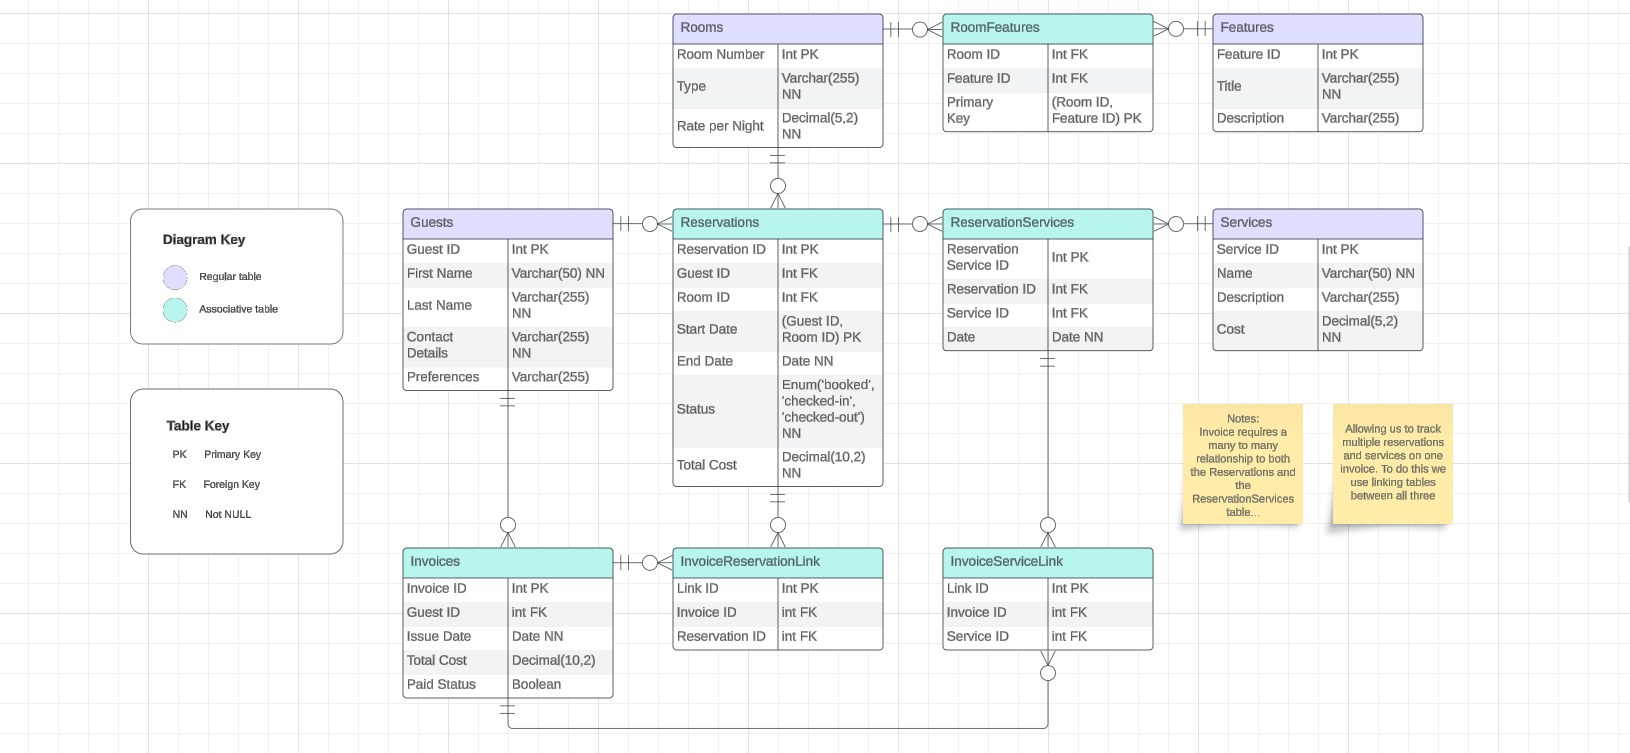
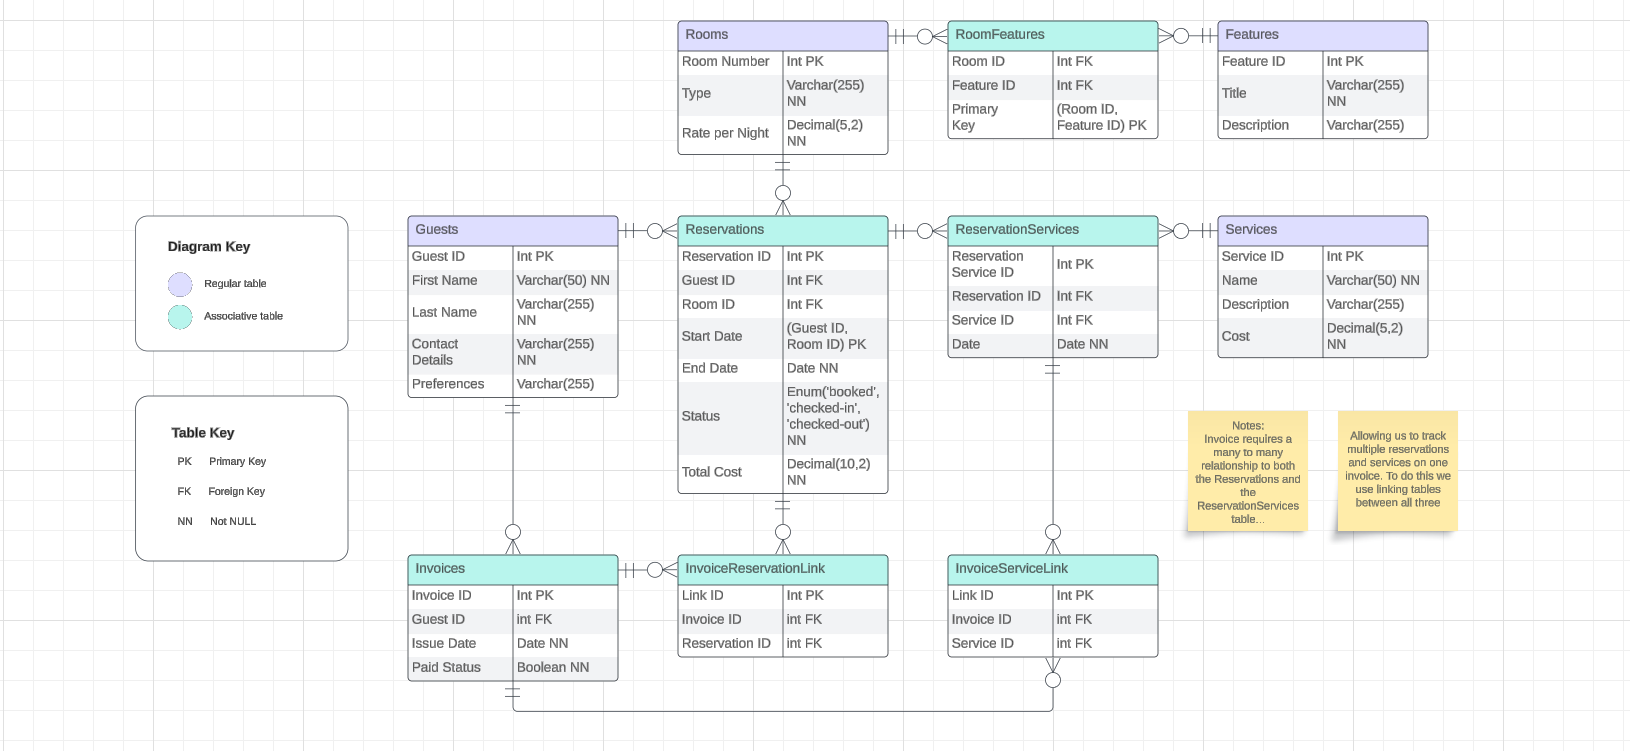
Updated HotelERD.png
Updated image

diff --git a/Solutions/C2 - Hotel/solution.md b/Solutions/C2 - Hotel/solution.md
@@ -72,7 +72,6 @@ This document outlines the database solution for a Hotel Reservation System, inc
   - Invoice ID (Primary Key)
   - Guest ID (Foreign Key to Guests)
   - Issue Date
-  - Total Cost
   - Paid Status
 
 ### 8. InvoiceReservationLink (Associative Table)
@@ -91,11 +90,11 @@ This document outlines the database solution for a Hotel Reservation System, inc
   - Invoice ID (Foreign Key to Invoices)
   - Service ID (Foreign Key to Services)
 
-## Views
+## Queries &  Views
 
 ### 1. TotalCost
 
-- A view to check the total cost of reservations and services ordered by the guests.
+- A query to check the total cost of reservations and services ordered by the guests.
 - Includes information on reservations and information on purchased services.
 
 ### 2. RoomOccupancy

diff --git a/Solutions/C1 - Library/solution.md b/Solutions/C1 - Library/solution.md
@@ -68,7 +68,7 @@ This document outlines the database solution for a Library Management System, in
   - ISBN (Foreign Key to Books)
   - Genre ID (Foreign Key to Genres)
 
-## Views
+## Queries & Views
 
 ### 1. Returns
 
